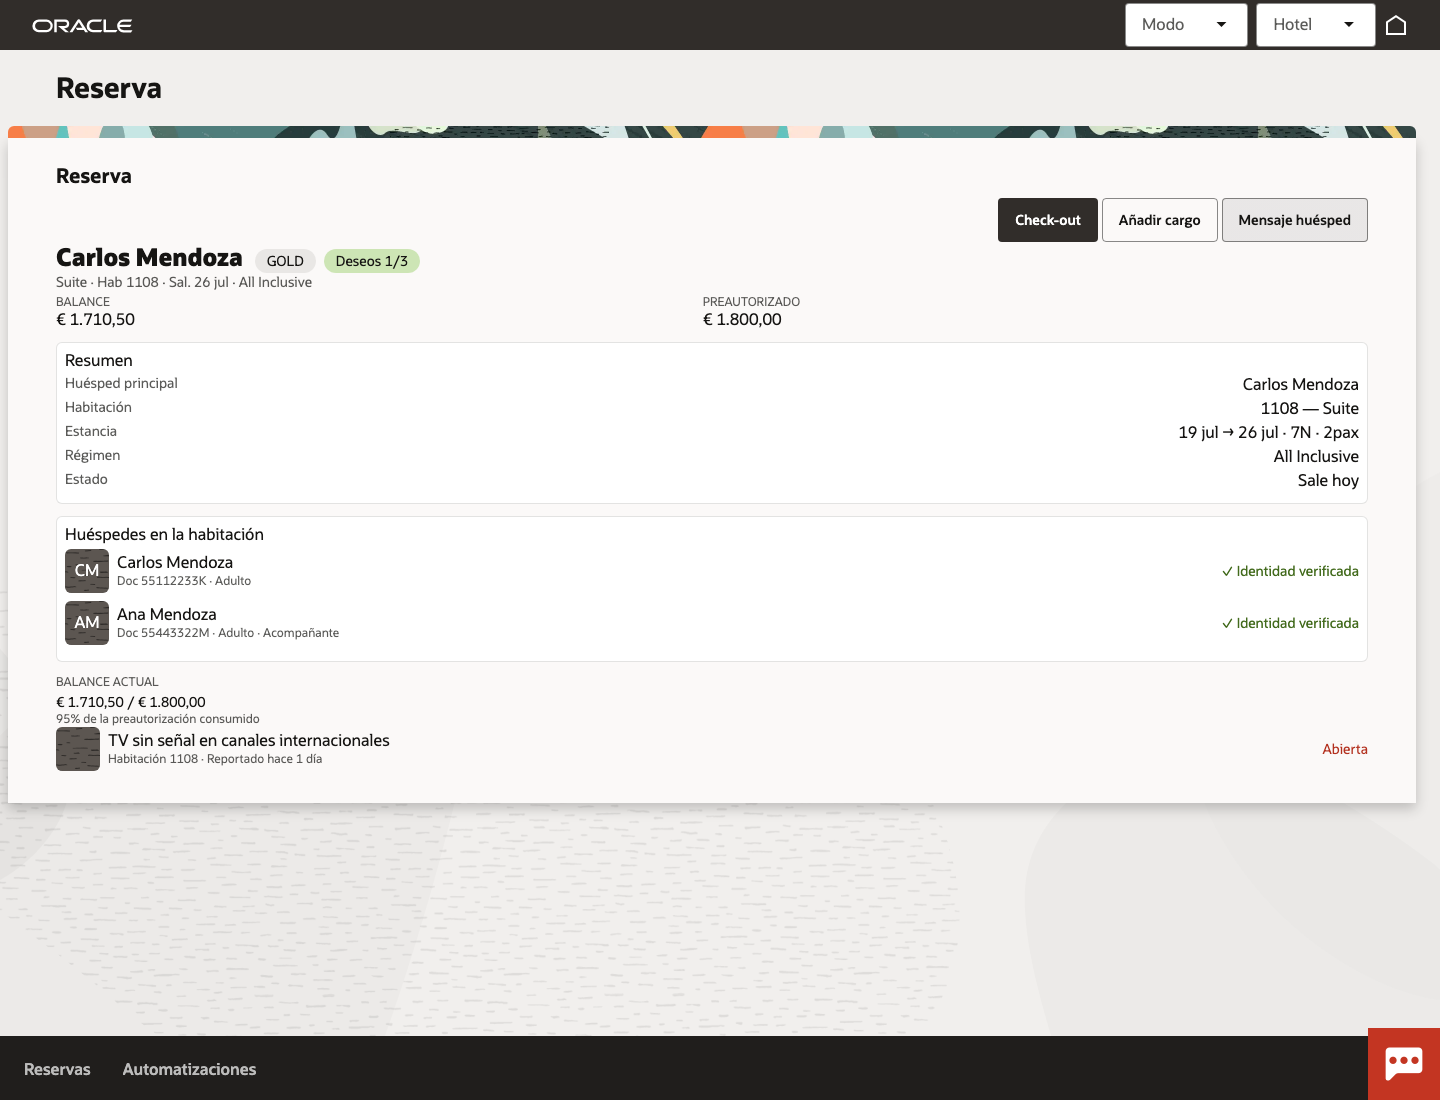
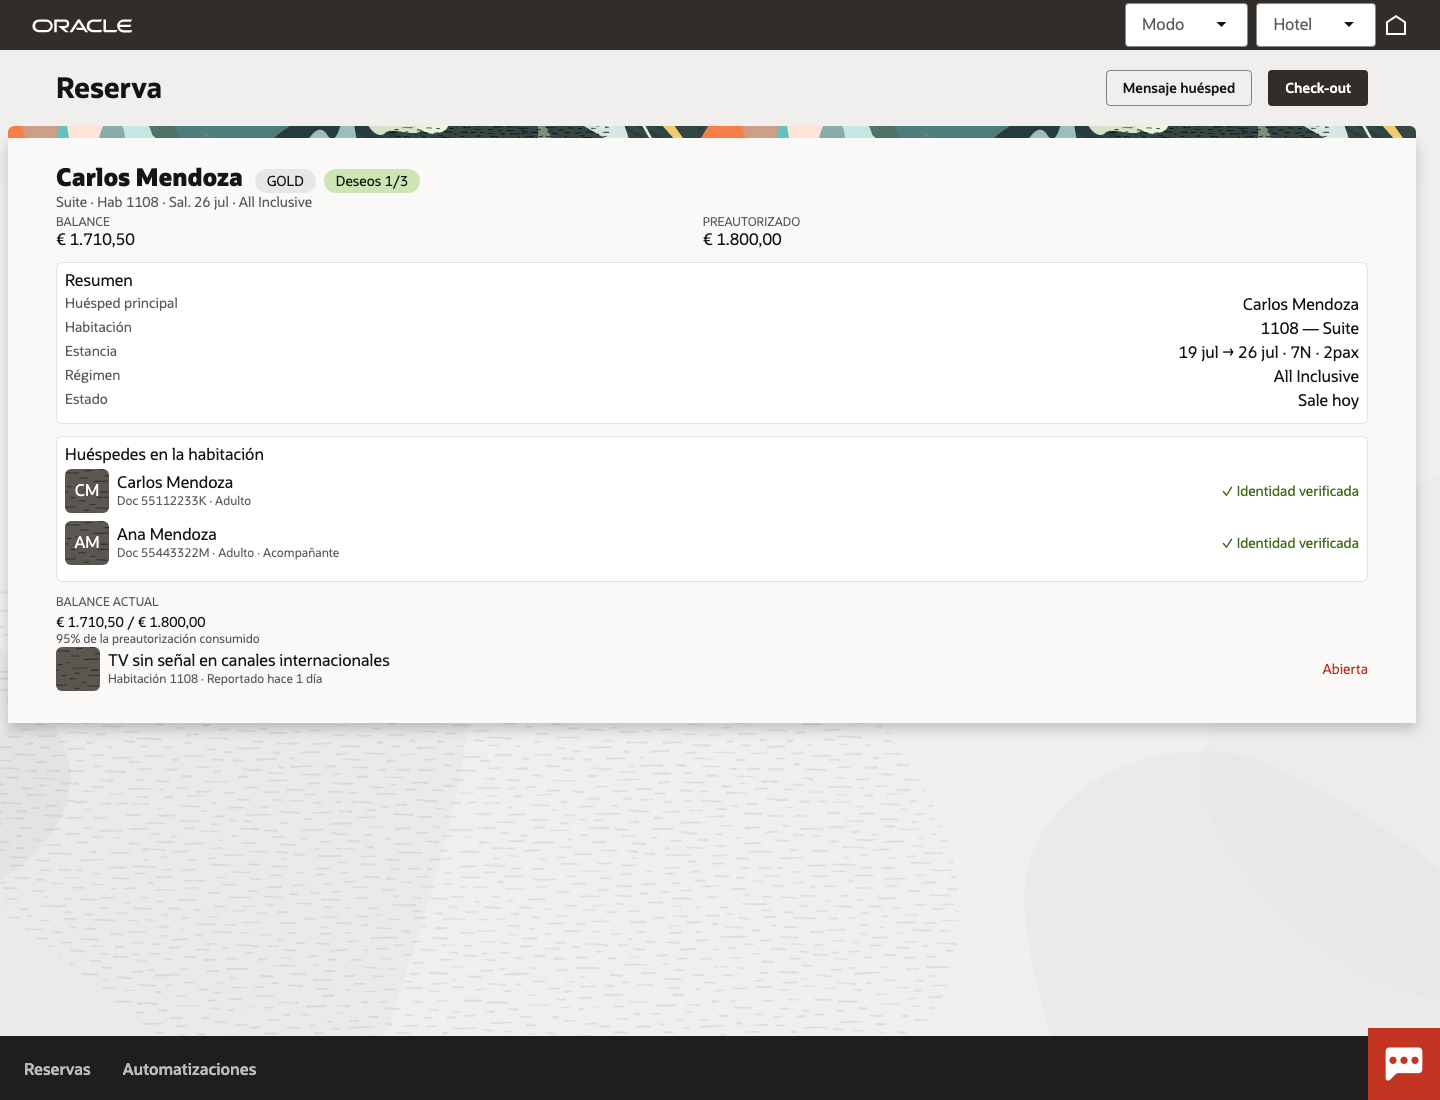
feat(vb): las acciones del toolbar de página van al header de banda
pageToolbarOf proyecta el toolbar de la Page al primary/secondary del
oj-sp-header-general-overview (primary = buttonStyle primary; secondary
resuelto por label), y hostContentOf filtra el átomo fromPageToolbar del
contenido (las islas lo conservan). La 360 muestra Iniciar check-in /
Check-out+Mensaje / Volver arriba a la derecha del header.

diff --git a/.dev/vb/mateu-vb/webApps/vbredwoodapp/resources/js/mateu-bridge.js b/.dev/vb/mateu-vb/webApps/vbredwoodapp/resources/js/mateu-bridge.js
@@ -562,7 +562,7 @@ define([], () => {
         const pageTitle = interp(m.title || '')
         if (pageTitle) atom({ isText: true, text: pageTitle, cls: 'oj-typography-subheading-sm' }, container)
         const toolbar = (m.toolbar || []).filter((b) => b && b.actionId)
-        if (toolbar.length) atom({ isButtons: true, buttons: toolbar.map(buttonOf) }, container)
+        if (toolbar.length) atom({ isButtons: true, fromPageToolbar: true, buttons: toolbar.map(buttonOf) }, container)
         for (const child of kidsOf(node)) visit(child, container)
         return
       }
@@ -799,6 +799,9 @@ define([], () => {
             titleDropped = true
             return false
           }
+          // el TOOLBAR de Page tampoco va al contenido: se proyecta a las acciones del
+          // header (pageToolbarOf → primary/secondary de la banda)
+          if (atom.fromPageToolbar) return false
           if (opts.forWizard) {
             if (atom.isProgress) return false
             if (atom.isButtons && atom.buttons.length
@@ -829,6 +832,21 @@ define([], () => {
       }
     }
     return forward
+  }
+
+  /** El TOOLBAR de la Page del host (para las acciones del header de banda):
+   *  [{actionId, label, chroming}]. El de estilo primary va al primaryAction del header. */
+  function pageToolbarOf(ctx) {
+    if (!ctx || !ctx.tree) return []
+    const page = findByType(ctx.tree, 'Page')
+    if (!page) return []
+    return (page.metadata.toolbar || [])
+      .filter((b) => b && b.actionId)
+      .map((b) => ({
+        actionId: b.actionId,
+        label: b.label || b.actionId,
+        chroming: b.buttonStyle === 'primary' ? 'callToAction' : 'outlined',
+      }))
   }
 
   /** Descartar el overlay superior SIN guardar (✕/Esc/backdrop — no emite evento alguno). */
@@ -1291,6 +1309,7 @@ define([], () => {
     wizardForwardOf,
     bannersOf,
     pageStyleOf,
+    pageToolbarOf,
     collectTexts,
     foldoutOf,
     wizardOf,

diff --git a/.dev/vb/mateu-vb/webApps/vbredwoodapp/flows/main/pages/main-start-page.html b/.dev/vb/mateu-vb/webApps/vbredwoodapp/flows/main/pages/main-start-page.html
@@ -35,6 +35,10 @@
       :style.margin="[[ $application.variables.mateuBandBoxMargin ]]">
       <oj-sp-header-general-overview id="mateuPageHeaderEl"
         page-title="[[ $application.variables.mateuPageHeader.title ]]"
+        primary-action="[[ $application.variables.mateuPageHeader.primary ]]"
+        secondary-actions="[[ $application.variables.mateuPageHeader.secondary ]]"
+        on-sp-primary-action="[[ $listeners.headerPrimary ]]"
+        on-sp-secondary-action="[[ $listeners.headerSecondary ]]"
         display-options.go-to-parent="false"></oj-sp-header-general-overview>
     </div>
   </div>
@@ -54,6 +58,10 @@
 <oj-bind-if test="[[ $application.variables.mateuPageHeader.showInline ]]">
   <oj-sp-header-general-overview id="mateuPageHeaderInline" class="oj-bg-neutral-0"
     page-title="[[ $application.variables.mateuPageHeader.title ]]"
+    primary-action="[[ $application.variables.mateuPageHeader.primary ]]"
+    secondary-actions="[[ $application.variables.mateuPageHeader.secondary ]]"
+    on-sp-primary-action="[[ $listeners.headerPrimary ]]"
+    on-sp-secondary-action="[[ $listeners.headerSecondary ]]"
     display-options.go-to-parent="false"></oj-sp-header-general-overview>
 </oj-bind-if>
 

diff --git a/.dev/vb/mateu-vb/webApps/vbredwoodapp/flows/main/pages/main-start-page-chains/runMateuAction.js b/.dev/vb/mateu-vb/webApps/vbredwoodapp/flows/main/pages/main-start-page-chains/runMateuAction.js
@@ -226,12 +226,19 @@ define([
         ? 'edgeToEdge' : ((hostAfter && hostAfter.pageWidth) || 'fixed');
       const showBandA = showHeaderA && pwAfter !== 'edgeToEdge';
       const showListBandA = !!listingSummary && pwAfter !== 'edgeToEdge';
+      // las acciones del toolbar de la Page van al HEADER (primary/secondary de la banda)
+      const hostToolbarA = bridge.pageToolbarOf(hostAfter);
+      const primaryBtnA = hostToolbarA.find((b) => b.chroming === 'callToAction') || null;
       $application.variables.mateuPageHeader = {
         title: summary.title || '',
         showBand: showBandA,
         showInline: showHeaderA && !showBandA,
         showListBand: showListBandA,
         showListInline: !!listingSummary && !showListBandA,
+        primary: primaryBtnA ? { label: primaryBtnA.label } : { label: '', display: 'off' },
+        primaryId: primaryBtnA ? primaryBtnA.actionId : '',
+        secondary: hostToolbarA.filter((b) => b !== primaryBtnA).map((b) => ({ label: b.label })),
+        toolbar: hostToolbarA,
       };
       $application.variables.mateuShellPageLayout = pwAfter === 'fixed' ? 'fixedWidth' : pwAfter;
       $application.variables.mateuDirty = false;

diff --git a/.dev/vb/mateu-vb/webApps/vbredwoodapp/flows/main/pages/main-start-page-chains/headerSecondaryAction.js b/.dev/vb/mateu-vb/webApps/vbredwoodapp/flows/main/pages/main-start-page-chains/headerSecondaryAction.js
@@ -1,0 +1,39 @@
+/* Acción SECUNDARIA del header genérico de banda: el detail trae el item (por label) —
+ * se resuelve contra el toolbar de Page proyectado y se despacha contra el HOST. */
+
+define([
+  'vb/action/actionChain',
+  'vb/action/actions',
+], (
+  ActionChain,
+  Actions,
+) => {
+  'use strict';
+
+  class headerSecondaryAction extends ActionChain {
+
+    /**
+     * @param {Object} context
+     * @param {Object} params
+     * @param {Object} params.event  spSecondaryAction ({detail: {secondaryItem}})
+     */
+    async run(context, { event }) {
+      const { $application } = context;
+
+      const detail = (event && event.detail) || {};
+      const label = detail.secondaryItem && detail.secondaryItem.label
+        ? detail.secondaryItem.label : detail.secondaryItem;
+      const toolbar = ($application.variables.mateuPageHeader || {}).toolbar || [];
+      const match = toolbar.find((b) => b.label === label);
+      if (!match) {
+        return;
+      }
+      await Actions.callChain(context, {
+        chain: 'runMateuAction',
+        params: { actionId: match.actionId },
+      });
+    }
+  }
+
+  return headerSecondaryAction;
+});

diff --git a/.dev/vb/mateu-vb/webApps/vbredwoodapp/pages/shell-page-chains/onMateuNavigate.js b/.dev/vb/mateu-vb/webApps/vbredwoodapp/pages/shell-page-chains/onMateuNavigate.js
@@ -267,12 +267,19 @@ define([
       // la banda asome por detrás de su arranque — como el fondo general del lienzo
       const showBand = showHeader && pw !== 'edgeToEdge';
       const showListBand = !!listingSummary && pw !== 'edgeToEdge';
+      // las acciones del toolbar de la Page van al HEADER (primary/secondary de la banda)
+      const hostToolbar = bridge.pageToolbarOf(host);
+      const primaryBtn = hostToolbar.find((b) => b.chroming === 'callToAction') || null;
       $application.variables.mateuPageHeader = {
         title: summary.title || '',
         showBand: showBand,
         showInline: showHeader && !showBand,
         showListBand: showListBand,
         showListInline: !!listingSummary && !showListBand,
+        primary: primaryBtn ? { label: primaryBtn.label } : { label: '', display: 'off' },
+        primaryId: primaryBtn ? primaryBtn.actionId : '',
+        secondary: hostToolbar.filter((b) => b !== primaryBtn).map((b) => ({ label: b.label })),
+        toolbar: hostToolbar,
       };
       if (showBand || showListBand) {
         // la caja de la banda usa la MISMA fórmula horizontal que el contenido…

diff --git a/.dev/vb/DESIGN-NOTES.md b/.dev/vb/DESIGN-NOTES.md
@@ -740,6 +740,18 @@ enseñaba el contenido de identidad aunque el rail dijera Extras→Confirmar; la
 saltaba, la posición inicial no) — 32 tests Wizard* del core en verde. PENDIENTE: plegar
 /encasa y /checkout dentro de la 360 si se quiere.
 
+## Acciones del toolbar en el HEADER de banda (2026-07-26)
+
+El toolbar de la Page (ToolbarSupplier/@Toolbar) ya NO se pinta en el contenido: se
+proyecta a las acciones del header genérico de banda — `pageToolbarOf(ctx)` lee
+Page.metadata.toolbar; el botón buttonStyle=primary va a `primaryAction` y el resto a
+`secondaryActions` del oj-sp-header-general-overview (mismo patrón que el header de
+colección; spSecondaryAction resuelve por label vía headerSecondaryAction). El átomo del
+toolbar en islandContentOf va marcado `fromPageToolbar` y hostContentOf lo filtra (las
+ISLAS lo conservan: no tienen header). La 360 muestra así "Iniciar check-in" /
+"Check-out"+"Mensaje huésped" / "Volver a la reserva" arriba a la derecha, como la
+gramática RDS de los pantallazos.
+
 ## Banda también para el header de colección (smart search, 2026-07-26)
 
 El listado no tenía la banda tras el header (el oj-sp-smart-filter-search ENTERO vivía
